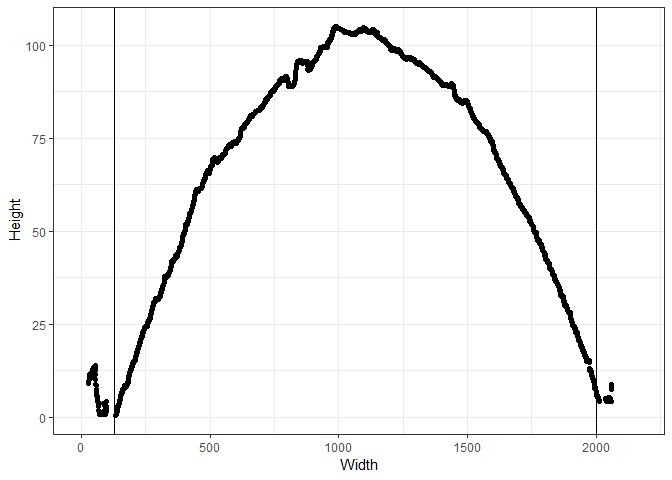
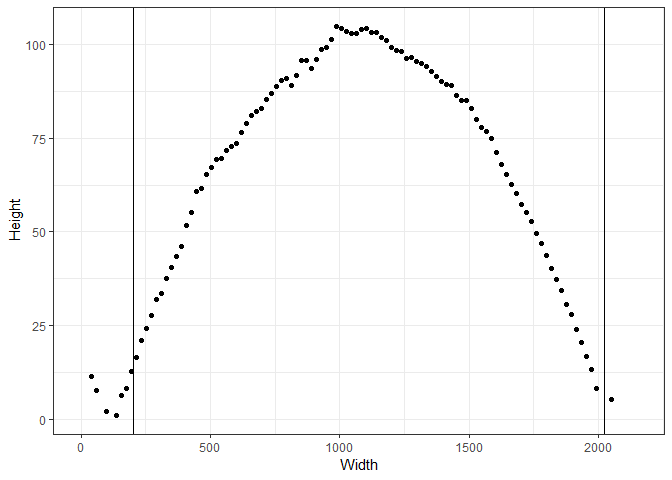
Make example in readme run faster.

diff --git a/README.md b/README.md
@@ -54,15 +54,16 @@ ggplot(data = raw_data) +
 
 <img src="man/figures/README-unnamed-chunk-1-1.png" width="100%" />
 
-Next, we use the `get_grooves_bcp()` function on the raw data to get the groove locations.
+Next, we use the `get_grooves_bcp()` function on the raw data to get the groove locations. Downsampled data are used here for speed, but in practice the full data should be used.
 
 ``` r
 # Estimate the groove locations by supplying additional arguments 
-cp_gibbs <- get_grooves_bcp(x = raw_data$x, value = raw_data$value, adjust = 10, iter = 10000)
+raw_data <- raw_data[seq(from = 1, to = nrow(raw_data), by = 30),]
+cp_gibbs <- get_grooves_bcp(x = raw_data$x, value = raw_data$value, adjust = 30, iter = 2000)
 
 # Estimated groove locations
 cp_gibbs$groove
-#> [1]  128.8428 2000.5187
+#> [1]  202.73 2021.10
 
 ggplot(data = raw_data) +
   geom_point(aes(x = x, y = value)) +
@@ -71,7 +72,7 @@ ggplot(data = raw_data) +
   xlab("Width") +
   geom_vline(aes(xintercept = cp_gibbs$groove[1])) +
   geom_vline(aes(xintercept = cp_gibbs$groove[2]))
-#> Warning: Removed 323 rows containing missing values (geom_point).
+#> Warning: Removed 11 rows containing missing values (geom_point).
 ```
 
 <img src="man/figures/README-get_grooves_bcp-1.png" width="100%" />
